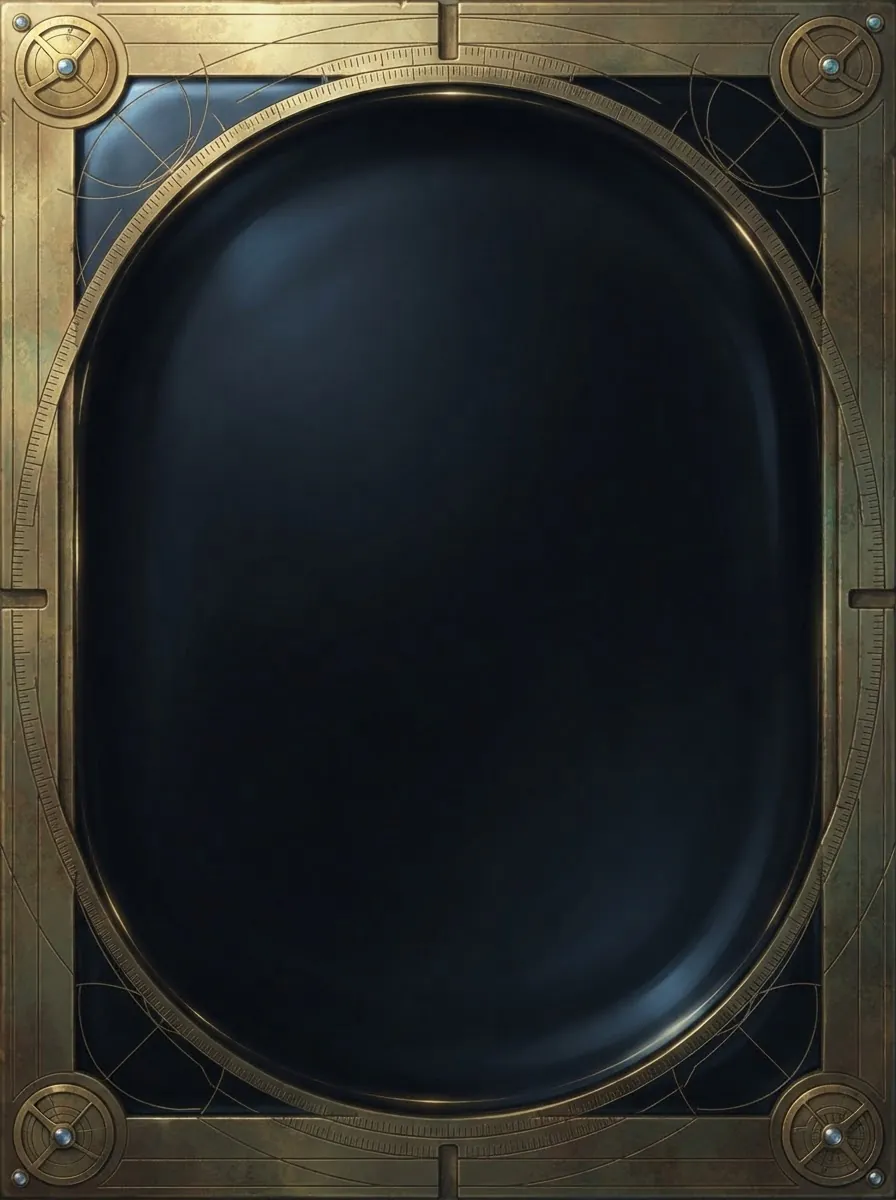
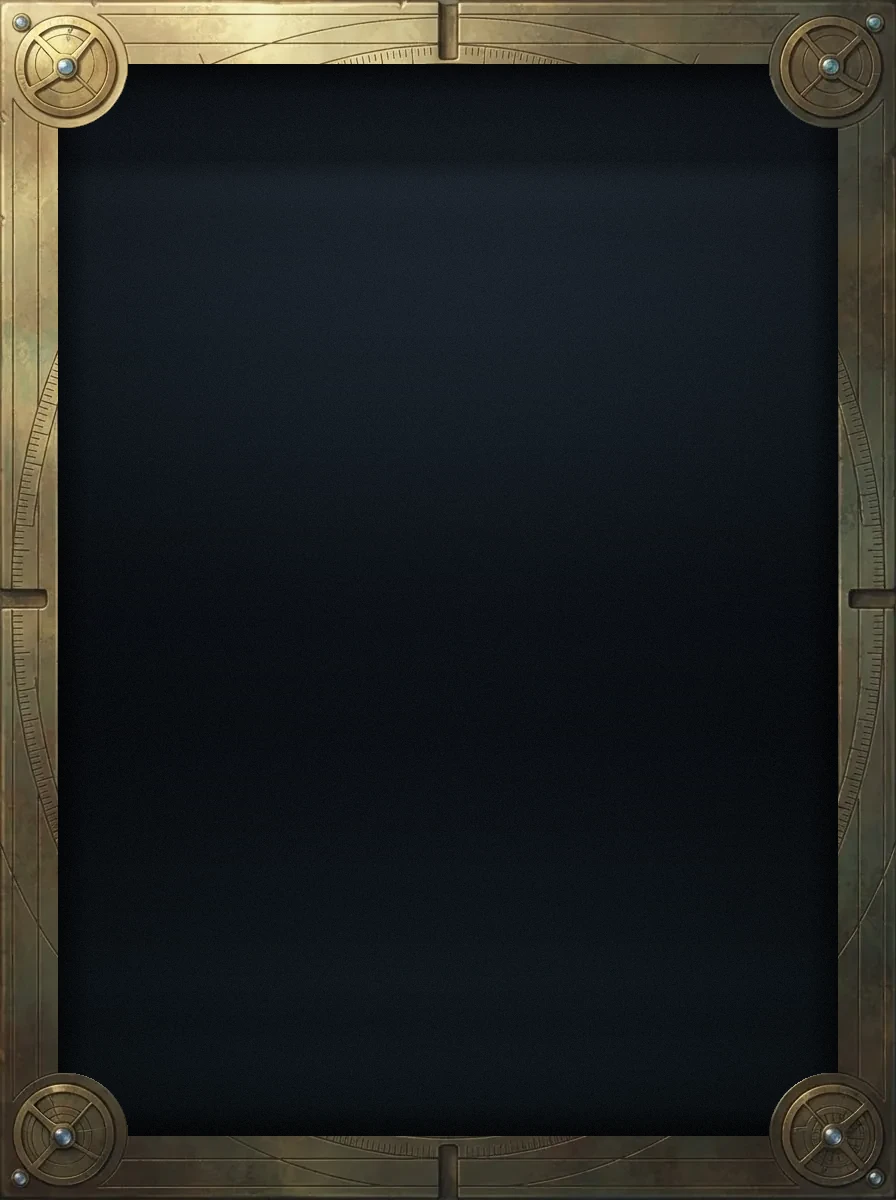
v347 : plateau des Sceaux sans l'anneau ovale, cases tenues dans le cadre
Claude-Session: https://claude.ai/code/session_01G3jW2e2fkjyWdrMoKXNbtm

Changed region(s): [[0.0625, 0.0308, 0.9375, 0.9558], [0.25, 0.1542, 0.4062, 0.3083]]

diff --git a/css/army.css b/css/army.css
@@ -3060,3 +3060,12 @@ html.standalone .op-pile { width: min(78vw, 340px, calc((var(--app-h, 100dvh) - 
 .dv-float.dmg.crit { font-size: 2.2rem !important; color: #FFE7A0 !important; -webkit-text-stroke: 1.5px #7a4a00; text-shadow: 0 0 20px rgba(255, 190, 60, 1), 0 3px 0 #4a2a00, 0 6px 10px rgba(0, 0, 0, .8) !important; }
 @keyframes dvDmgSlam { 0% { opacity: 0; transform: translate(-50%, 0) scale(2.6); } 14% { opacity: 1; transform: translate(-50%, 0) scale(.9); } 24% { transform: translate(-50%, -4px) scale(1.08); } 34% { transform: translate(-50%, -6px) scale(1); } 80% { opacity: 1; } 100% { opacity: 0; transform: translate(-50%, -40px) scale(.95); } }
 @media (max-width: 360px) { .dv-float.dmg { font-size: 1.9rem !important; } .dv-float.dmg.big { font-size: 2.4rem !important; } }
+/* v347 : Sceaux — cases (« supports ») qui dépassaient du cadre sur iPhone : une piste de grille « 1fr » peut grandir
+   jusqu'à la taille minimale de son contenu (Safari) ; minmax(0, 1fr) l'en empêche. Les cases restent exactement dans
+   le cadre peint, et le plateau garde les proportions de son image. */
+.sc-plate { grid-template-columns: repeat(3, minmax(0, 1fr)); grid-template-rows: repeat(3, minmax(0, 1fr)); overflow: visible; }
+.sc-cell { width: 100%; height: 100%; max-width: 100%; max-height: 100%; box-sizing: border-box; overflow: visible; }
+.sc-board { max-width: 100%; max-height: 100%; }
+/* v347 : plateau repeint sans l'anneau ovale (store/sceaux/plateau-avant-v347.webp garde l'ancien) ; les cases s'écartent
+   un peu des médaillons des coins */
+.sc-plate { top: 9.6%; bottom: 9.7%; left: 10.4%; right: 10.9%; }

diff --git a/sw.js b/sw.js
@@ -1,7 +1,7 @@
 // Service worker d'ABYSSAL : l'application et les données sont mises en cache
 // pour fonctionner hors ligne après une première visite. Incrémenter VERSION à
 // chaque publication pour que les joueurs reçoivent la mise à jour.
-const VERSION = 'abyssal-v346';
+const VERSION = 'abyssal-v347';
 const ART_CACHE = 'abyssal-media';  // images du jeu : gardées entre les versions
 const FONT_CACHE = 'abyssal-fonts';
 const CORE = [

diff --git a/js/config.js b/js/config.js
@@ -1,7 +1,7 @@
 // Configuration centrale du jeu : raretés, tables de tirage, boosters,
 // économie, variantes, progression. Toute la balance se règle ici.
 
-export const VERSION = 'v346'; // même numéro que sw.js : affiché dans Réglages > À propos
+export const VERSION = 'v347'; // même numéro que sw.js : affiché dans Réglages > À propos
 
 export const RARITIES = [
   { key: 'C',  name: 'Commune',     short: 'C',  color: '#A3ADBD' },

diff --git a/CLAUDE.md b/CLAUDE.md
@@ -22,7 +22,7 @@ Ce texte reprend tout ce qu'il faut savoir du projet. Ce fichier est lu automati
 - Le réseau de la session bloque github.io : pour vérifier la publication, passe par l'outil GitHub (déploiements Pages) ou demande une capture au propriétaire.
 
 ## 2. Routine de livraison
-1. Version : **ligne 4** de `js/config.js` **et** de `sw.js`, toujours le même numéro (`sed -i "4s/vX/vY/" js/config.js sw.js`). Actuellement **v346**.
+1. Version : **ligne 4** de `js/config.js` **et** de `sw.js`, toujours le même numéro (`sed -i "4s/vX/vY/" js/config.js sw.js`). Actuellement **v347**.
 2. Tests : `node --test tests/*.test.mjs` (216 tests), `node tools/validate.mjs`. Si le combat ou l'équilibre change : `node tools/fuzz.mjs 300` (étage moyen ≈ 12 à 14 en normal).
 3. Vérification dans le navigateur avec Playwright (`/opt/node-tools/node_modules/playwright/index.mjs`, Chromium déjà installé), avec un serveur local `python3 -m http.server 8092` lancé dans le dossier. Tailles iPhone SE et iPhone 13. **L'écran d'ouverture attend un toucher** (« Touche l'écran pour entrer ») : dans les scripts, cliquer au milieu de l'écran (dans la fenêtre 390×664) avant tout le reste.
 4. Commit, push, réponse en français.
@@ -100,6 +100,7 @@ Ce texte reprend tout ce qu'il faut savoir du projet. Ce fichier est lu automati
 - Amis par pseudo (voir stats et collection), puis versus 1 contre 1 (Sceaux et combats façon Descente). Le propriétaire veut que le perdant **perde vraiment** une carte. Cadre conseillé si on le fait : mode « Duel à enjeu » séparé et consenti (duel normal sans perte à côté), mise de même rareté des deux côtés, favoris jamais mis en jeu, adversaires de niveau proche, accès après quelques jours et duels normaux (contre les comptes jetables et le trafic de cartes), uniquement entre joueurs présents ou amis ayant accepté (jamais sur une partie jouée par l'IA à la place d'un absent).
 
 ## 5. Décisions déjà prises
+- v347 : plateau des Sceaux repeint sans l'anneau ovale doré (il passait sous les cases et donnait l'impression qu'elles dépassaient) ; ancienne image gardée dans `store/sceaux/plateau-avant-v347.webp`. Grille `.sc-plate` en `minmax(0, 1fr)` et cases un peu écartées des médaillons des coins.
 - v345 : le conseil d'équipe (vestibule, bilan de défaite, avertissement Maudite/Cauchemar, objectif « Renforce ») se juge sur la **force** (`cardPower` = rareté × niveau, comme `duelUnit` ; `g.teamPower()`), affichée ×100, contre `powerFor(étage) = 1 + (étage − 6) / 22` (mesuré au simulateur, 16 équipes par rareté et par niveau). Avant, le niveau seul conseillait le niveau 10 à l'étage 21 même à une équipe de rares au niveau 4 (retour du propriétaire). `expectedLevel` ne sert plus qu'au Mode Créateur (`devFloor`).
 - v344 (bug signalé par le propriétaire) : un ennemi tué au milieu de son attaque de zone (épines, Molosse des Enfers…) continuait de frapper les créatures suivantes. Les boucles de zone de `enemyAct` (blast, tempête de givre, déflagration des élites) et l'Effondrement s'arrêtent dès que l'attaquant tombe (test `tests/zone-mort.test.mjs`). L'explosion d'un ennemi Explosif à sa mort reste voulue (trait, règle « Nuée explosive »).
 - v340 : **boutique d'objets et sac retirés** (Torche bénie, `js/screens/items.js` supprimé, `ITEMS`, `buyItem`/`useItem` retirés ; `s.items` reste dans la sauvegarde, inutilisé). Image de la fenêtre de phase 2 (`.cb-phimg`) : `max-width: none`, sinon la règle générale `img { max-width: 100% }` la décale à gauche.
